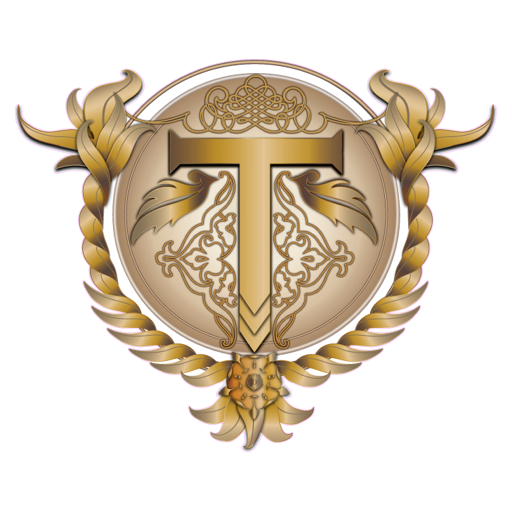
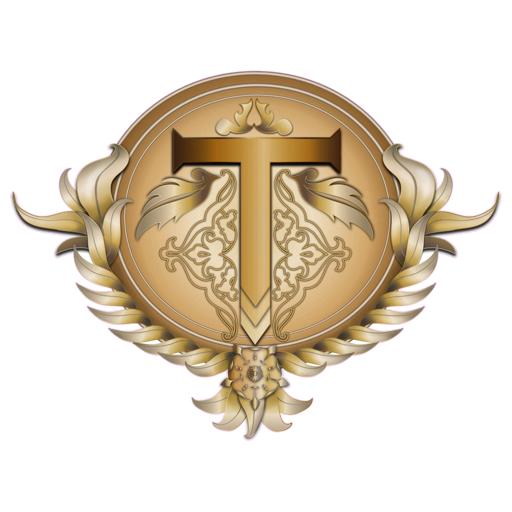
Thor demo: revert to gold crest sitewide; nudge hero crest down so the THOR sign reads above it

diff --git a/public/demos/thor/index.html b/public/demos/thor/index.html
@@ -252,8 +252,8 @@
       filter: saturate(1.08) brightness(0.92);
       z-index: 0;
     }
-    .hero-inner { position: relative; z-index: 2; max-width: 920px; }
-    .hero-crest { width: min(300px, 66vw); height: auto; display: block; margin: 0 auto; filter: drop-shadow(0 12px 40px rgba(0,0,0,0.6)); }
+    .hero-inner { position: relative; z-index: 2; max-width: 920px; transform: translateY(7vh); }
+    .hero-crest { width: min(270px, 62vw); height: auto; display: block; margin: 0 auto; filter: drop-shadow(0 12px 40px rgba(0,0,0,0.6)); }
     .hero-mark { margin: 0; line-height: 1; }
     .hero-sub {
       margin-top: 18px;